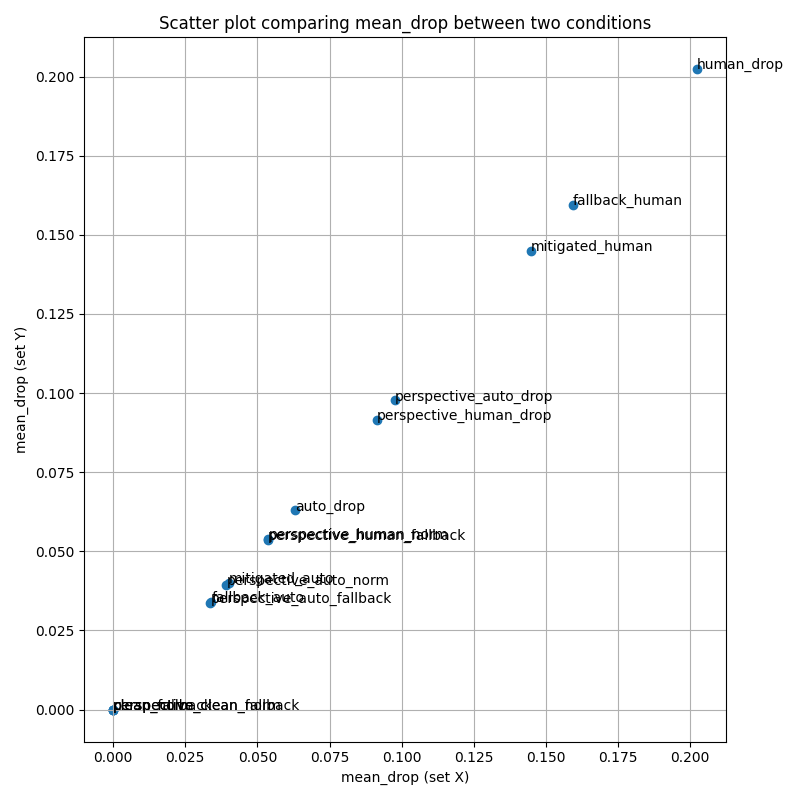
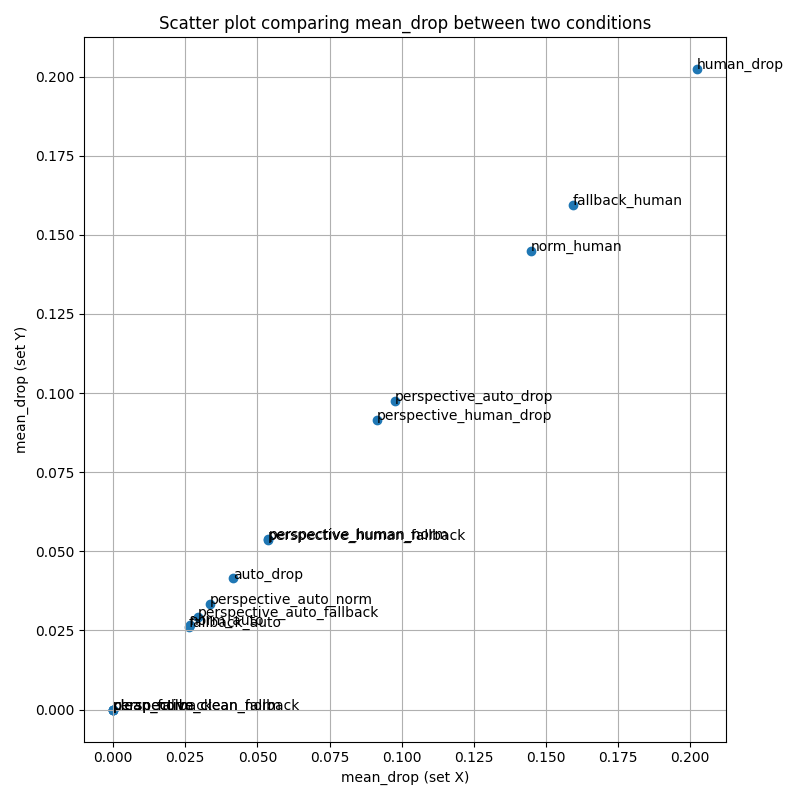
minor updates

Changed region(s): [[0.2188, 0.6875, 0.5, 0.8125], [0.6562, 0.2812, 0.8125, 0.3125], [0.3438, 0.625, 0.4688, 0.6562]]

diff --git a/run.py b/run.py
@@ -21,8 +21,8 @@ def main():
     clean_scores = evaluate_toxicity(clean_texts)
 
     print("Applying normalisation mitigation (clean)...")
-    mitigated_clean_texts = [normalise_text(t) for t in clean_texts]
-    mitigated_clean_scores = evaluate_toxicity(mitigated_clean_texts)
+    norm_clean_texts = [normalise_text(t) for t in clean_texts]
+    norm_clean_scores = evaluate_toxicity(norm_clean_texts)
 
     print("Applying detection + fallback mitigation (clean)...")
     fallback_clean_texts = detect_and_fallback(clean_texts, fallback_fn=lambda x: x)
@@ -38,16 +38,16 @@ def main():
 
     # Mitigation strategies (Detoxify)
     print("Applying normalisation mitigation (human)...")
-    mitigated_human_texts = [normalise_text(t) for t in human_texts]
-    mitigated_human_scores = evaluate_toxicity(mitigated_human_texts)
+    norm_human_texts = [normalise_text(t) for t in human_texts]
+    norm_human_scores = evaluate_toxicity(norm_human_texts)
 
     print("Applying detection + fallback mitigation (human)...")
     fallback_human_texts = detect_and_fallback(human_texts, fallback_fn=lambda x: x)
     fallback_human_scores = evaluate_toxicity(fallback_human_texts)
 
     print("Applying normalisation mitigation (automated)...")
-    mitigated_auto_texts = [normalise_text(t) for t in auto_texts]
-    mitigated_auto_scores = evaluate_toxicity(mitigated_auto_texts)
+    norm_auto_texts = [normalise_text(t) for t in auto_texts]
+    norm_auto_scores = evaluate_toxicity(norm_auto_texts)
 
     print("Applying detection + fallback mitigation (automated)...")
     fallback_auto_texts = detect_and_fallback(auto_texts, fallback_fn=lambda x: x)
@@ -59,7 +59,7 @@ def main():
         persp_clean = evaluate_perspective(clean_texts)
 
         print("Applying normalisation mitigation (Perspective, clean)...")
-        persp_clean_norm = evaluate_perspective(mitigated_clean_texts)
+        persp_clean_norm = evaluate_perspective(norm_clean_texts)
 
         print("Applying detection + fallback mitigation (Perspective, clean)...")
         persp_clean_fallback = evaluate_perspective(fallback_clean_texts)
@@ -68,7 +68,7 @@ def main():
         persp_human = evaluate_perspective(human_texts)
 
         print("Applying normalisation mitigation (Perspective, human)...")
-        persp_human_norm = evaluate_perspective(mitigated_human_texts)
+        persp_human_norm = evaluate_perspective(norm_human_texts)
 
         print("Applying detection + fallback mitigation (Perspective, human)...")
         persp_human_fallback = evaluate_perspective(fallback_human_texts)
@@ -77,7 +77,7 @@ def main():
         persp_auto = evaluate_perspective(auto_texts)
 
         print("Applying normalisation mitigation (Perspective, auto)...")
-        persp_auto_norm = evaluate_perspective(mitigated_auto_texts)
+        persp_auto_norm = evaluate_perspective(norm_auto_texts)
 
         print("Applying detection + fallback mitigation (Perspective, auto)...")
         persp_auto_fallback = evaluate_perspective(fallback_auto_texts)
@@ -102,11 +102,11 @@ def main():
     result_summary = {
         "human_drop": compare_toxicity_scores(clean_scores, human_scores),
         "auto_drop": compare_toxicity_scores(clean_scores, auto_scores),
-        "clean_norm": compare_toxicity_scores(clean_scores, mitigated_clean_scores),
+        "clean_norm": compare_toxicity_scores(clean_scores, norm_clean_scores),
         "clean_fallback": compare_toxicity_scores(clean_scores, fallback_clean_scores),
-        "mitigated_human": compare_toxicity_scores(clean_scores, mitigated_human_scores),
+        "norm_human": compare_toxicity_scores(clean_scores, norm_human_scores),
         "fallback_human": compare_toxicity_scores(clean_scores, fallback_human_scores),
-        "mitigated_auto": compare_toxicity_scores(clean_scores, mitigated_auto_scores),
+        "norm_auto": compare_toxicity_scores(clean_scores, norm_auto_scores),
         "fallback_auto": compare_toxicity_scores(clean_scores, fallback_auto_scores),
         **persp_results
     }
@@ -116,11 +116,10 @@ def main():
         print(f"\n{k}:\n{v}")
 
     # Visualisations
-    print("\nGenerating bar plot...")
+    print("\nGenerating bar chart...")
     plot_comparison(result_summary, metric="mean_drop", save_path="results_bar.png")
 
-    print("Generating scatter plot...")
-    # For scatter, just comparing human vs auto drops as an example
+    print("Generating scatter graph...")
     plot_scatter(
         results_dict_x=result_summary,
         results_dict_y=result_summary,
@@ -130,16 +129,16 @@ def main():
 
     print("Generating box plot...")
     # Box plot requires raw scores
-    raw_scores_dict = {
+    raw_scores = {
         "clean": clean_scores,
         "human": human_scores,
         "auto": auto_scores,
-        "mitigated_human": mitigated_human_scores,
+        "norm_human": norm_human_scores,
         "fallback_human": fallback_human_scores,
-        "mitigated_auto": mitigated_auto_scores,
+        "norm_auto": norm_auto_scores,
         "fallback_auto": fallback_auto_scores
     }
-    plot_box(raw_scores_dict, metric="toxicity", save_path="results_box.png")
+    plot_box(raw_scores, metric="toxicity", save_path="results_box.png")
 
     print("\n✅ Experiment complete.")
 

diff --git a/data/automated.py b/data/automated.py
@@ -20,9 +20,9 @@ def random_char_noise(text):
         return text
     i = random.randint(0, len(text) - 1)
     ops = [
-        text[:i] + text[i]*2 + text[i+1:],               # duplication
-        text[:i] + "" + text[i+1:],                      # deletion
-        text[:i] + random.choice("!?.*") + text[i:],     # insertion
+        text[:i] + text[i]*2 + text[i+1:],             # duplication
+        text[:i] + "" + text[i+1:],                    # deletion
+        text[:i] + random.choice("!?.*") + text[i:],   # insertion
     ]
     return random.choice(ops)
 
@@ -78,7 +78,7 @@ def automated_perturbation(texts, num_examples=50):
         try:
             out = attack(t)
         except Exception:
-            out = t  # fallback if attack breaks
+            out = t  # if there's an error, do nothing
 
         perturbed.append(out)
 
